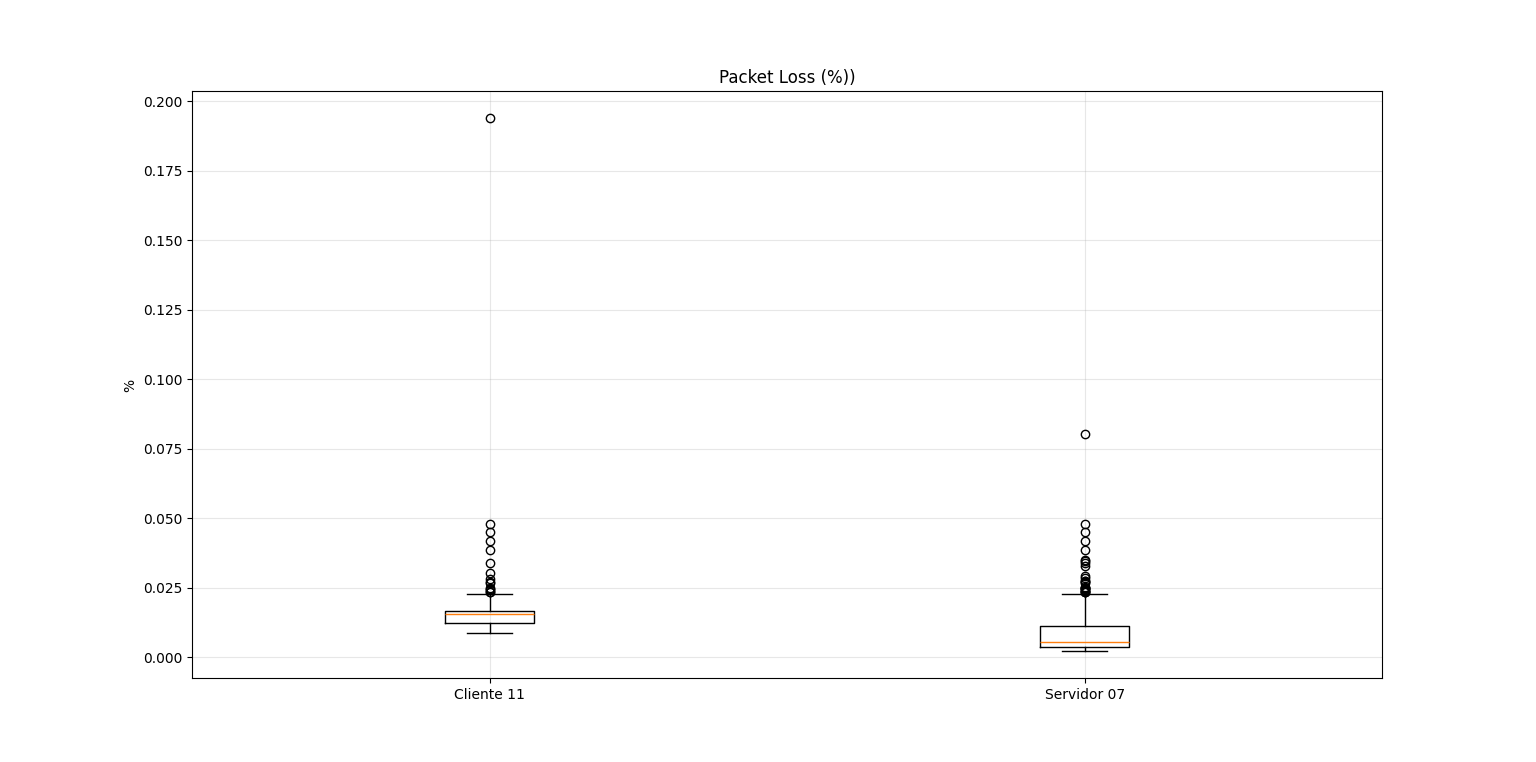
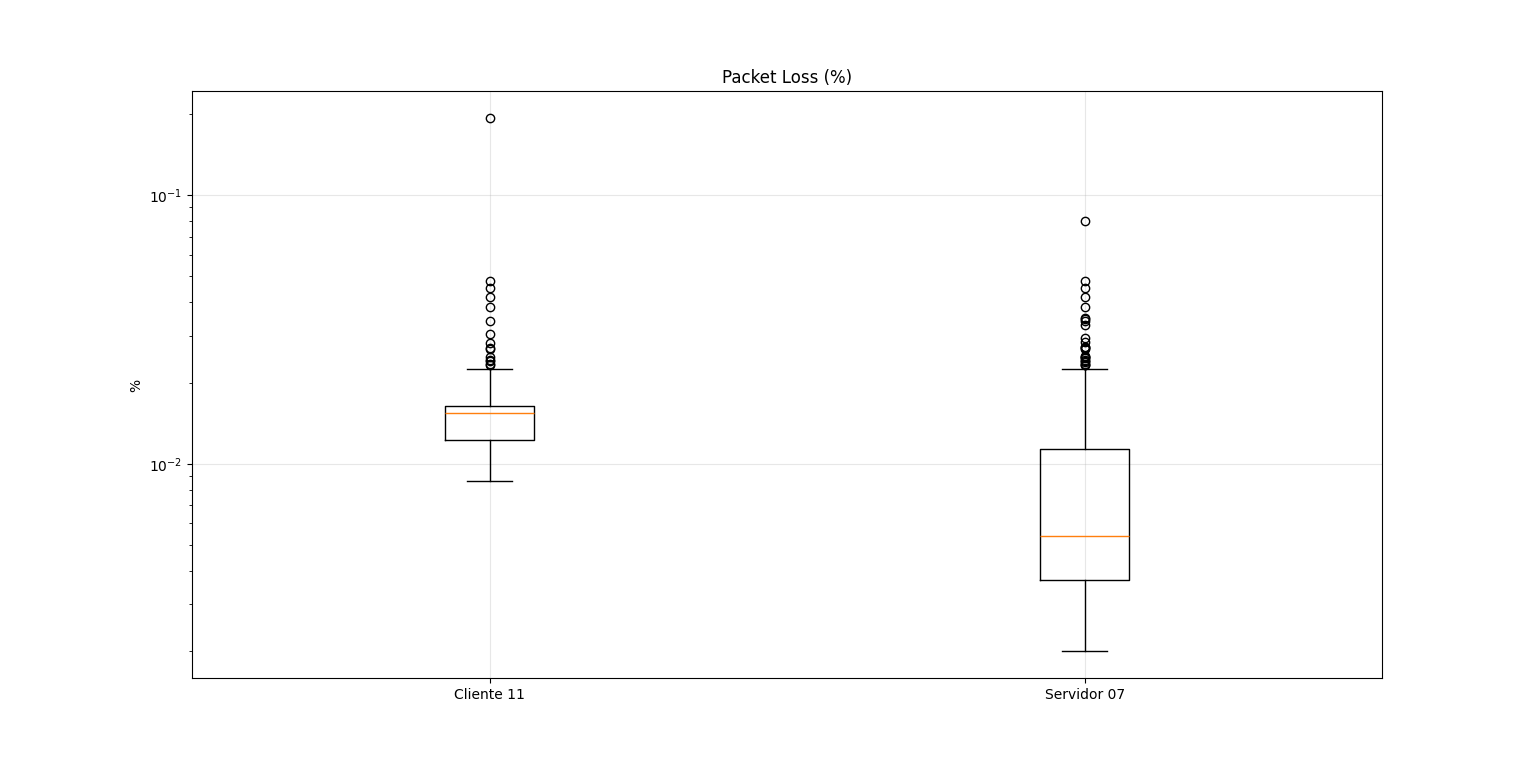
jogando log nos boxplot

diff --git a/trabalho_parte1/graph_maker.py b/trabalho_parte1/graph_maker.py
@@ -104,6 +104,7 @@ def boxplot_double(data1, data2, name1, name2, title, yline, graphSize=(12,6)):
     groupName = [name1, name2]
 
     plt.figure(figsize=graphSize)
+    plt.yscale('log')
     plt.boxplot(groupData, labels=groupName)
     plt.title(title)
     plt.ylabel(yline)
@@ -111,11 +112,11 @@ def boxplot_double(data1, data2, name1, name2, title, yline, graphSize=(12,6)):
 
     plt.show()
 
-#boxplot_double(cli11dt, ser07dt, "Cliente 11", "Servidor 07", "Download Throughput (bps)", "bps", (16,8))
-#boxplot_double(cli11ut, ser07ut, "Cliente 11", "Servidor 07", "Upload Throughput (bps)", "bps", (16,8))
-#boxplot_double(cli11pl, ser07pl, "Cliente 11", "Servidor 07", "RTT Download (sec)", "sec", (16,8))
-#boxplot_double(cli11rttd, ser07rttd, "Cliente 11", "Servidor 07", "RTT Upload (sec)", "sec", (16,8))
-#boxplot_double(cli11rttu, ser07rttu, "Cliente 11", "Servidor 07", "Packet Loss (%)", "%", (16,8))
+boxplot_double(cli11dt, ser07dt, "Cliente 11", "Servidor 07", "Download Throughput (bps)", "bps", (16,8))
+boxplot_double(cli11ut, ser07ut, "Cliente 11", "Servidor 07", "Upload Throughput (bps)", "bps", (16,8))
+boxplot_double(cli11pl, ser07pl, "Cliente 11", "Servidor 07", "RTT Download (sec)", "sec", (16,8))
+boxplot_double(cli11rttd, ser07rttd, "Cliente 11", "Servidor 07", "RTT Upload (sec)", "sec", (16,8))
+boxplot_double(cli11rttu, ser07rttu, "Cliente 11", "Servidor 07", "Packet Loss (%)", "%", (16,8))
 
 #===============================================================================================================================================================
 # creating the scatter plot
@@ -143,5 +144,5 @@ def scatterPlot_double(v1, v2, title, xname, yname, graphSize=(12,6)):
     plt.grid(True, alpha=0.3)
     plt.show()
     
-scatterPlot_double(cli11dt, cli11pl, "Cliente 11 - Download Throughput x Packet Loss", "Download Throughput", "Packet Loss", (16,8))
-scatterPlot_double(ser07dt, ser07pl, "Servidor 07 - Download Throughput x Packet Loss", "Download Throughput", "Packet Loss", (16,8))
+#scatterPlot_double(cli11dt, cli11pl, "Cliente 11 - Download Throughput x Packet Loss", "Download Throughput", "Packet Loss", (16,8))
+#scatterPlot_double(ser07dt, ser07pl, "Servidor 07 - Download Throughput x Packet Loss", "Download Throughput", "Packet Loss", (16,8))
